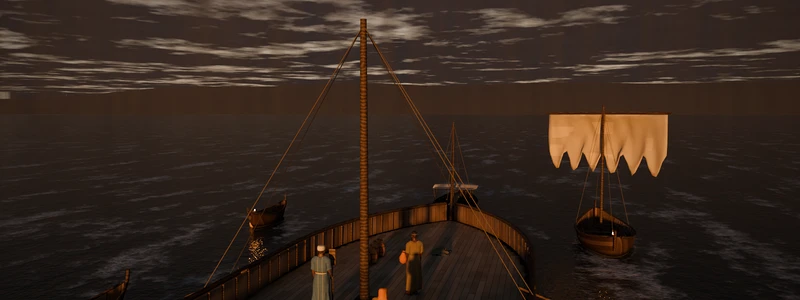
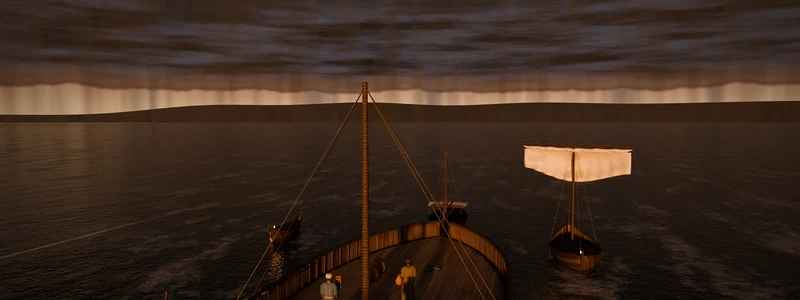
feat(art): a towering squall and a shortened sail on Chapter 2's key art
The storm card's sky was flat grey. It now has a shelf cloud rolling over
the far hills, a band of last light under it broken by curtains of rain,
and water darker and rougher toward the storm. The other boat carries a
real square sail on its yard, part-furled as the squall comes. Chapter 2's
subtitle becomes "A night on the lake, in one of the other boats".

diff --git a/src/content/index.ts b/src/content/index.ts
@@ -49,12 +49,12 @@ const REGISTRY: RegistryEntry[] = [
       id: 'storm-on-galilee',
       number: 2,
       title: 'A Storm on Galilee',
-      subtitle: 'One of the other boats',
+      subtitle: 'A night on the lake, in one of the other boats',
       available: true,
       estimatedMinutes: { min: 20, max: 30 },
       keyArt: keyArt(
         'storm-on-galilee',
-        'Fishing boats on the Sea of Galilee at dusk as dark storm cloud rolls in over the far hills; the crew stand on the deck of the family’s boat as the waves rise.',
+        'Fishing boats on the Sea of Galilee at dusk as a towering dark squall rolls in over the far hills, rain falling beneath it; another boat shortens its sail as the waves rise.',
       ),
     },
     load: () => import('./chapters/storm-on-galilee').then((m) => m.STORM_ON_GALILEE),

diff --git a/src/content/chapters/storm-on-galilee/index.ts b/src/content/chapters/storm-on-galilee/index.ts
@@ -36,7 +36,7 @@ export const STORM_ON_GALILEE: ChapterInput = {
   id: 'storm-on-galilee',
   number: 2,
   title: 'A Storm on Galilee',
-  subtitle: 'One of the other boats',
+  subtitle: 'A night on the lake, in one of the other boats',
   synopsis:
     'Crew the family fishing boat for the first time, on the evening a teacher crosses the Sea of Galilee and other boats go with him. Read the sky, load the boat, and face a storm in the dark — then read what Mark says happened in the boat ahead.',
   estimatedMinutes: { min: 20, max: 30 },

diff --git a/tools/art/lib/key_art_storm.py b/tools/art/lib/key_art_storm.py
@@ -45,8 +45,16 @@ def storm_water():
         # Whitecaps: the crests of the wind waves breaking, streaked downwind.
         crest = n.new("ShaderNodeMapRange", Value=(h2, "Value"), **{"From Min": 0.92, "From Max": 1.08})
         streak = n.noise(3.0, 6.0, 0.7, (stretch, "Vector"))
-        caps = n.math("MULTIPLY", (crest, "Result"), (streak, "Fac"), clamp=True)
-        col = n.mix((caps, "Value"), "#1b3434", "#d9dedb")
+        # Darker and rougher toward the storm (east, +x): more of it breaking.
+        geo = n.new("ShaderNodeNewGeometry")
+        gx = n.new("ShaderNodeSeparateXYZ", Vector=(geo, "Position"))
+        toward = n.new("ShaderNodeMapRange", Value=(gx, "X"), **{"From Min": 30.0, "From Max": 1500.0})
+        more = n.math("MULTIPLY_ADD", (toward, "Result"), 1.6)
+        n._in(more, 2, 1.0)
+        caps = n.math("MULTIPLY", (crest, "Result"), (streak, "Fac"))
+        caps = n.math("MULTIPLY", (caps, "Value"), (more, "Value"), clamp=True)
+        water = n.mix((toward, "Result"), "#1b3434", "#0c1617")
+        col = n.mix((caps, "Value"), (water, 2), "#d9dedb")
         rough = n.new("ShaderNodeMapRange", Value=(caps, "Value"), **{"To Min": 0.06, "To Max": 0.7})
         n.bsdf(
             **{
@@ -94,7 +102,7 @@ def hills(scene, centre, z0, seed=3):
     def ridge(t):
         # The skyline: higher to the east (the Golan side), lower to the north.
         east = np.exp(-((t - 0.0) / 0.9) ** 2)
-        base = 120.0 + 260.0 * east
+        base = 80.0 + 170.0 * east
         wob = sum(math.sin(k * 3.1 * t + ph[k]) * (70.0 / (k + 1)) for k in range(1, 8))
         return base + wob
 
@@ -185,38 +193,59 @@ def storm_sky(scene, sun_az=182.0, sun_el=3.5, strength=1.0):
     D = tc.outputs["Generated"]
     sep = node("ShaderNodeSeparateXYZ", Vector=D)
     x, y, zc = sep.outputs["X"], sep.outputs["Y"], sep.outputs["Z"]
-    # The cloud deck, seen in perspective: (x, y) / z.
+
+    def smooth(value, a, b):
+        return node("ShaderNodeMapRange", _interpolation_type="SMOOTHSTEP", Value=value, **{"From Min": a, "From Max": b}).outputs[0]
+
+    def noise1(value, scale, detail=4.0, rough=0.6, w=0.0):
+        vec = node("ShaderNodeCombineXYZ", X=value, Y=w, Z=0.0).outputs[0]
+        return node("ShaderNodeTexNoise", Vector=vec, Scale=scale, Detail=detail, Roughness=rough).outputs["Fac"]
+
+    az = math_("ARCTAN2", y, x)
+    # How far round toward the squall (east, +x): it fills the sky ahead and
+    # breaks up behind, to the west.
+    ahead = smooth(x, -0.45, 0.25)
+    # The high cloud above the shelf: a dark, rolling overcast seen in
+    # perspective, (x, y) / z.
     zz = math_("MAXIMUM", zc, 0.03)
-    u = math_("DIVIDE", x, zz)
-    v = math_("DIVIDE", y, zz)
-    uv = node("ShaderNodeCombineXYZ", X=u, Y=v, Z=0.0).outputs[0]
+    uv = node("ShaderNodeCombineXYZ", X=math_("DIVIDE", x, zz), Y=math_("DIVIDE", y, zz), Z=0.0).outputs[0]
     big = node("ShaderNodeTexNoise", Vector=uv, Scale=0.35, Detail=6.0, Roughness=0.62, Distortion=0.6).outputs["Fac"]
     rolls = node("ShaderNodeTexNoise", Vector=uv, Scale=1.6, Detail=8.0, Roughness=0.62).outputs["Fac"]
-    dens = math_("MULTIPLY_ADD", math_("SUBTRACT", rolls, 0.5), 0.6, big)
-    # Heavier over the hills ahead (east, +x), thinning to the clearer west behind.
-    east = node("ShaderNodeMapRange", Value=x, **{"From Min": -0.7, "From Max": 0.4, "To Min": -0.25, "To Max": 0.12}).outputs[0]
-    dens = math_("ADD", dens, east)
-    cover = node("ShaderNodeMapRange", Value=dens, **{"From Min": 0.44, "From Max": 0.6}).outputs[0]
-    # The sky behind the cloud: dim slate, a pale band low in the west.
-    hz = node("ShaderNodeMapRange", Value=zc, **{"From Min": 0.0, "From Max": 0.35}).outputs[0]
-    sky = mix(hz, "#d2bfa2", "#4a5262")
-    west = node("ShaderNodeMapRange", Value=x, **{"From Min": -0.2, "From Max": -0.95}).outputs[0]
-    low = node("ShaderNodeMapRange", Value=zc, **{"From Min": 0.12, "From Max": 0.0}).outputs[0]
-    glow = math_("MULTIPLY", west, low, clamp=True)
-    sky = mix(glow, sky, "#f2b27a")
-    # The cloud: dark, its rolled underside lit warm toward the sun, a little
-    # lighter where it is thin.
-    dark = mix(rolls, "#121419", "#343842")
+    dens = math_("ADD", math_("MULTIPLY_ADD", math_("SUBTRACT", rolls, 0.5), 0.6, big), math_("MULTIPLY", ahead, 0.5))
+    cover = smooth(dens, 0.42, 0.58)
+    # The shelf cloud: a towering dark wall over the far hills, its base a
+    # little above the horizon, its top billowing.
+    base = math_("MULTIPLY_ADD", noise1(az, 7.0, 4.0), 0.045, 0.03)
+    top = math_("MULTIPLY_ADD", noise1(az, 2.2, 5.0, 0.65, 3.0), 0.2, 0.14)
+    shelf = math_("MULTIPLY", smooth(zc, base, math_("ADD", base, 0.012)), math_("SUBTRACT", 1.0, smooth(zc, math_("SUBTRACT", top, 0.06), top)))
+    shelf = math_("MULTIPLY", shelf, ahead, clamp=True)
+    # Its face in long rolled bands, and the lip at its foot catching the last
+    # warm light from the west.
+    bands = noise1(math_("MULTIPLY", zc, 14.0), 3.0, 6.0, 0.6, math_("MULTIPLY", az, 1.5))
+    face = mix(smooth(bands, 0.35, 0.65), "#0d0f13", "#4a515e")
+    lip = math_("SUBTRACT", 1.0, smooth(zc, math_("ADD", base, 0.008), math_("ADD", base, 0.05)))
+    face = mix(math_("MULTIPLY", lip, 0.75), face, "#8a6650")
+    # Under the shelf: a band of last light low on the horizon, hidden in
+    # places by curtains of rain falling from the cloud.
+    band_glow = mix(smooth(zc, 0.0, 0.06), "#ffd29a", "#c99a7a")
+    veil = math_("MULTIPLY", smooth(noise1(az, 9.0, 3.0, 0.5, 7.0), 0.5, 0.7), ahead)
+    band = mix(math_("MULTIPLY", veil, 0.85), band_glow, "#59606a")
+    # Behind (west): pale sky low down, broken dark cloud above.
+    hz = smooth(zc, 0.0, 0.35)
+    sky = mix(hz, "#d8b48c", "#4a5262")
+    dark = mix(rolls, "#0c0e12", "#2a2e37")
     lit = node("ShaderNodeMapRange", Value=x, **{"From Min": 0.1, "From Max": -0.9, "To Min": 0.0, "To Max": 0.8}).outputs[0]
     lit = math_("MULTIPLY", lit, math_("SUBTRACT", 1.0, rolls), clamp=True)
     cloud = mix(lit, dark, "#c98a5c")
     col = mix(cover, sky, cloud)
+    # Ahead, below the shelf's base, the band; the shelf over everything.
+    under = math_("MULTIPLY", math_("SUBTRACT", 1.0, smooth(zc, base, math_("ADD", base, 0.01))), ahead)
+    col = mix(under, col, band)
+    col = mix(shelf, col, face)
     # Below the horizon (unseen past the hills, but it lights the scene from
     # the side): the lake's dark grey.
     below = node("ShaderNodeMapRange", Value=zc, **{"From Min": 0.0, "From Max": -0.05}).outputs[0]
     col = mix(below, col, "#22282a")
-    # A curtain of rain falling from the squall far ahead: vertical streaks,
-    # greying the hills where it falls.
     bg = node("ShaderNodeBackground", Color=col, Strength=strength)
     out = node("ShaderNodeOutputWorld")
     L.new(bg.outputs[0], out.inputs["Surface"])

diff --git a/tools/art/lib/key_art_shots.py b/tools/art/lib/key_art_shots.py
@@ -8,7 +8,7 @@ giving its ending away.
 |----|-------|
 | title | Dawn over Jerusalem: the flat roofs of the lower city, the wall, and the road east winding down into the wilderness (the teaser's sets) |
 | road-to-jericho | The player alone on the path along the gorge's rim, going down toward Jericho (the teaser's sets) |
-| storm-on-galilee | The family's boat on the open lake at dusk as storm cloud rolls in over the far hills; the other boats, one with its sail set |
+| storm-on-galilee | The family's boat on the open lake at dusk as the squall comes: a towering shelf cloud over the far hills, the last light low beneath it, rain falling, the water rougher toward the storm; another boat shortening its sail |
 | journey-to-bethlehem | Tamar's house at night, seen from inside: every corner full of guests and their bedding, the animals at the far end, a late stranger come in with his lamp |
 | letter-from-paul | Philemon's house at lamp-lighting: the household gathered round a sealed letter, Zenon ready to read it, Tychicus who carried it beside him |
 """
@@ -92,7 +92,40 @@ def squall(scene, p):
     S.hills(scene, centre, z)
     S.rain_curtain(scene, centre, z, heading=math.radians(8.0), dist=2000.0)
     S.storm_sky(scene)
+    link(scene, shortened_sail(p, 29, 18))
     scene.view_settings.exposure = -1.4 + p.exposure + 1.9
+
+
+def shortened_sail(p, x, y):
+    """The other boat's square sail being shortened as the squall comes: its
+    yard up and braced round, the upper part of the sail gathered up on it by
+    the brails, the rest still drawing in a smooth curve (the lake kit's own
+    yard, sail and furl builders, lake_boats.py)."""
+    import lake_materials as LM
+
+    rig = next(r for r in getattr(p, "_story_rigs", []) if (x, y) in r["tiles"])
+    L, B, xf = rig["L"], rig["B"], rig["xf"]
+    u_mast = 0.64
+    _hb, sheer, keel = p.hull_shape(u_mast, L, B)
+    mast_h = min(7.2, 0.82 * L + 0.4)
+    length = min(7.5, 0.86 * L)
+    base = Vector((-L / 2 + u_mast * L, 0.0, keel + 0.2))
+    brace = math.radians(30.0)
+    d = Vector((math.sin(brace), math.cos(brace), 0.0))
+    c = base + Vector((0.08, 0.0, mast_h - 0.35))
+    ya = xf @ (c + d * length / 2)
+    yb = xf @ (c - d * length / 2)
+    along = (ya - yb).normalized()
+    fwd = (xf.to_3x3() @ Vector((1.0, 0.0, 0.0))).normalized()
+    spar = M.wood("#6a5238", 3.5)
+    linen = LM.linen("#e4d8bd", "key-sail-linen")
+    drop = min(2.6, 0.4 * L) * 0.62
+    mid = (ya + yb) / 2
+    return [
+        p._branch("key-sail-yard", ya, yb, 0.05, 0.045, spar, 8, bow=-0.06),
+        p._furled("key-sail-furl", ya + Vector((0, 0, -0.12)) - along * 0.15, yb + Vector((0, 0, -0.12)) + along * 0.15, linen, common.rng(7), r=0.12),
+        p.square_sail("key-sail", mid + Vector((0, 0, -0.26)), along, length - 0.4, drop, fwd, linen, brails=1, belly=0.55),
+    ]
 
 
 CH2 = "storm-on-galilee"
@@ -102,7 +135,7 @@ shot(
         "open-lake",
         "night",
         chapter=CH2,
-        show={"teacher-boat-sail-furled", "fishing-boat-sail", "cargo-jars", "cargo-jars-more", "net-cargo", "rope-coil", "bailer-deck"},
+        show={"teacher-boat-sail-furled", "cargo-jars", "cargo-jars-more", "net-cargo", "rope-coil", "bailer-deck"},
         cast=[
             Cast("elazar", (18.4, 10.7), 95.0),
             Cast("yoezer", (20.6, 12.6), 120.0),
@@ -111,9 +144,9 @@ shot(
             Cast("ami", (14.8, 13.6), 60.0, pose="sit", marks=("wrapped-in-cloak",)),
         ],
         sky=squall,
-        eye=(5.2, 15.8, 5.0),
-        target=(36.0, 8.6, 3.0),
-        lens=26.0,
+        eye=(4.6, 16.2, 6.2),
+        target=(36.0, 8.6, 4.4),
+        lens=23.0,
         samples=128,
         grade={"exposure": 0.2, "contrast": 1.12, "balance": (1.02, 1.0, 1.0), "saturation": 0.92, "vignette": 0.3, "bloom": 0.12},
     )

diff --git a/docs/chapters/storm-on-galilee.md b/docs/chapters/storm-on-galilee.md
@@ -3,7 +3,7 @@
 **Passage:** Mark 4:35–41 (parallels: Matthew 8:23–27; Luke 8:22–25). **Play time:** about 23 minutes on the main quest alone and 39 for a curious first run, at a steady reading pace (see [§11](#11-how-long-it-plays)). **Status:** playable end to end; approval status in [§12](#12-content-and-approval-status).
 **Content:** [`src/content/chapters/storm-on-galilee/`](../../src/content/chapters/storm-on-galilee/) is the source of truth; this document describes the chapter as built. Engine-wide design (controls, puzzle types, the ending contract, the play-time model): [game-design.md](../game-design.md).
 
-Chapter id `storm-on-galilee`, number 2, subtitle *One of the other boats*, `contentVersion` `1.0.0-draft`, `estimatedMinutes` 20–30. Setting (as the chapter states it): Capernaum and the Sea of Galilee, early first century AD, during the years of Jesus' public ministry (dates approximate).
+Chapter id `storm-on-galilee`, number 2, subtitle *A night on the lake, in one of the other boats*, `contentVersion` `1.0.0-draft`, `estimatedMinutes` 20–30. Setting (as the chapter states it): Capernaum and the Sea of Galilee, early first century AD, during the years of Jesus' public ministry (dates approximate).
 
 ## 1. The idea and the passage
 
